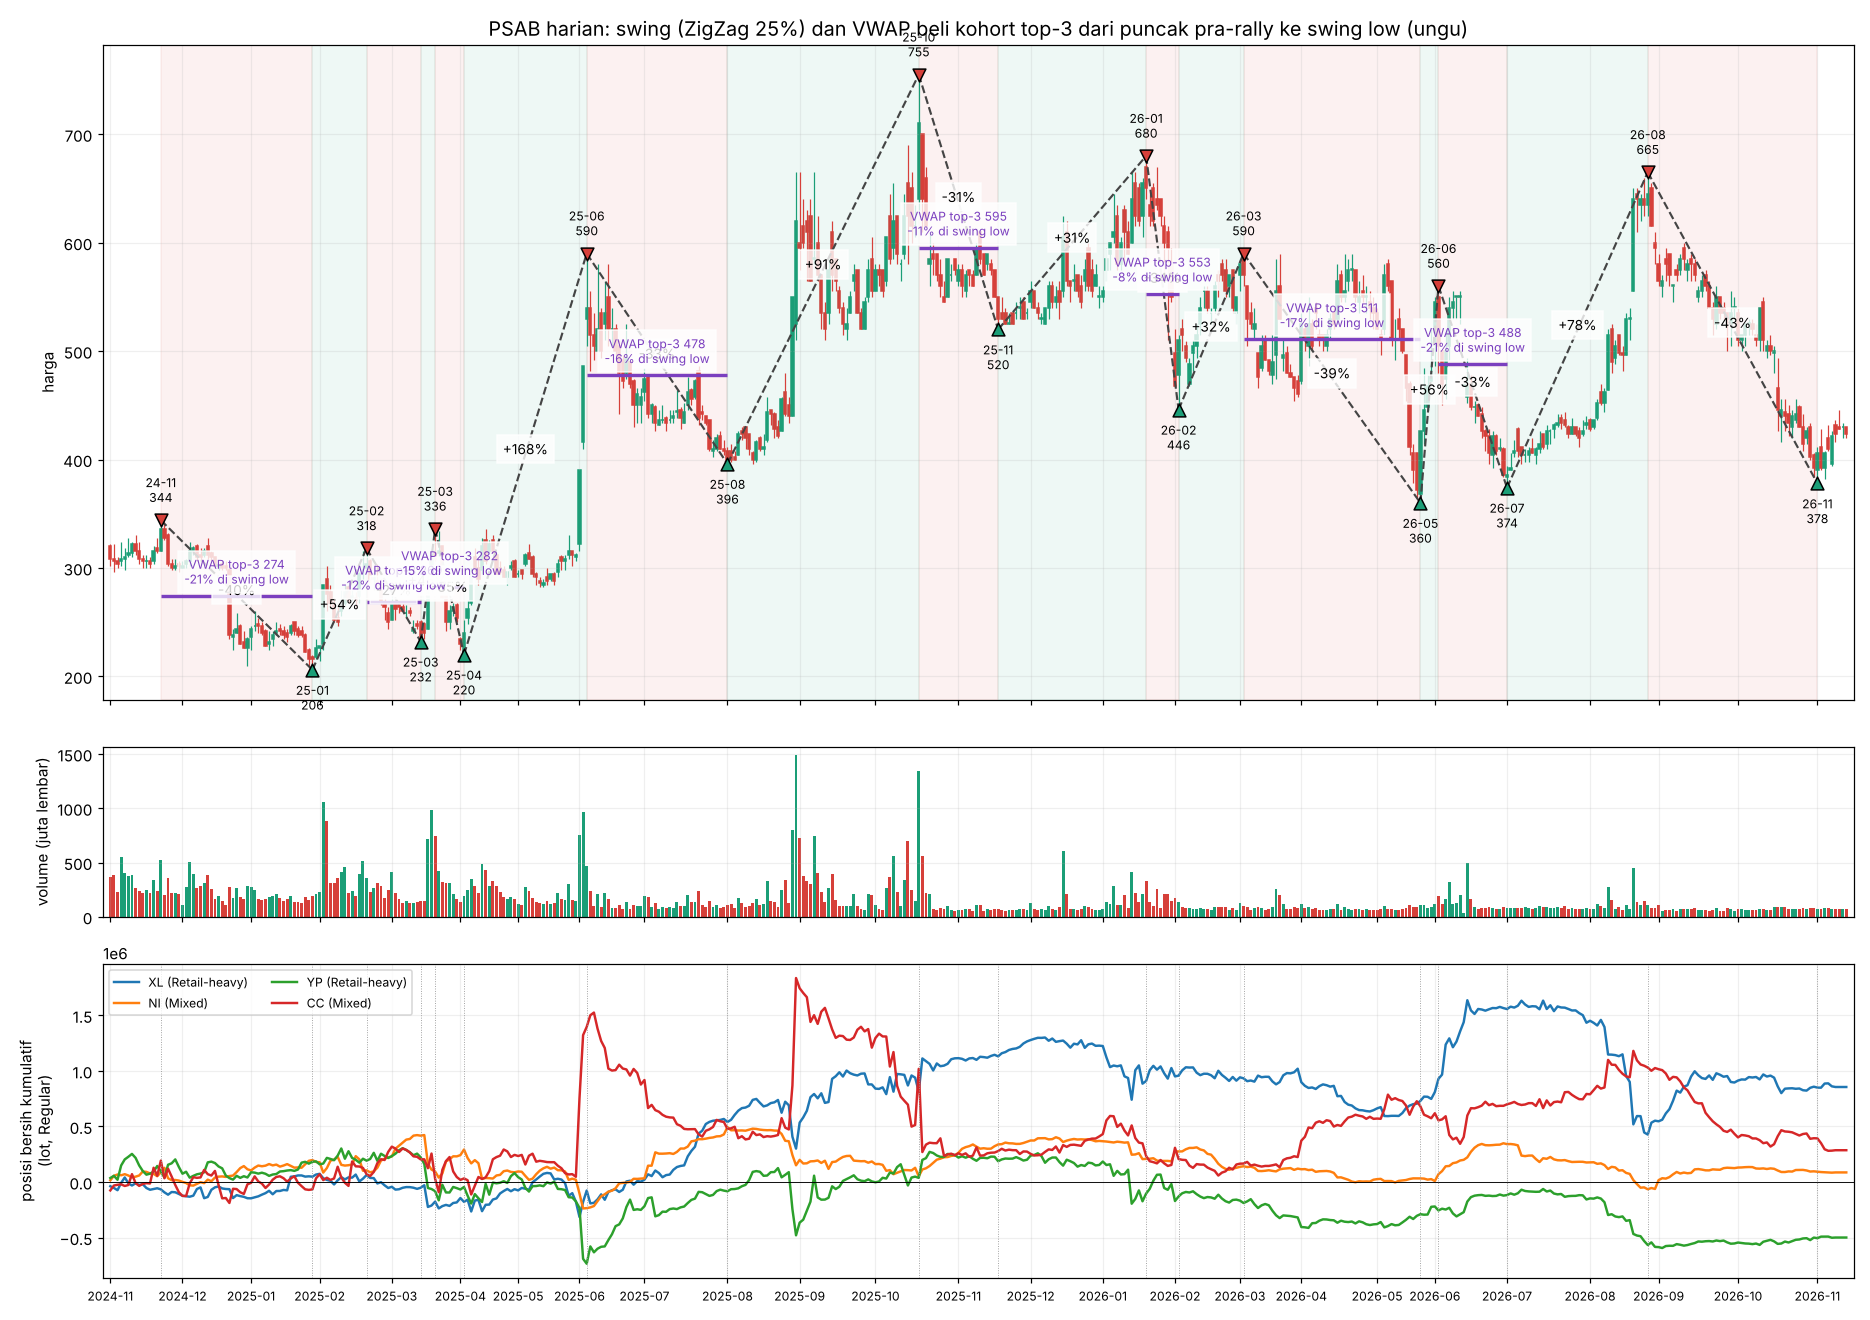
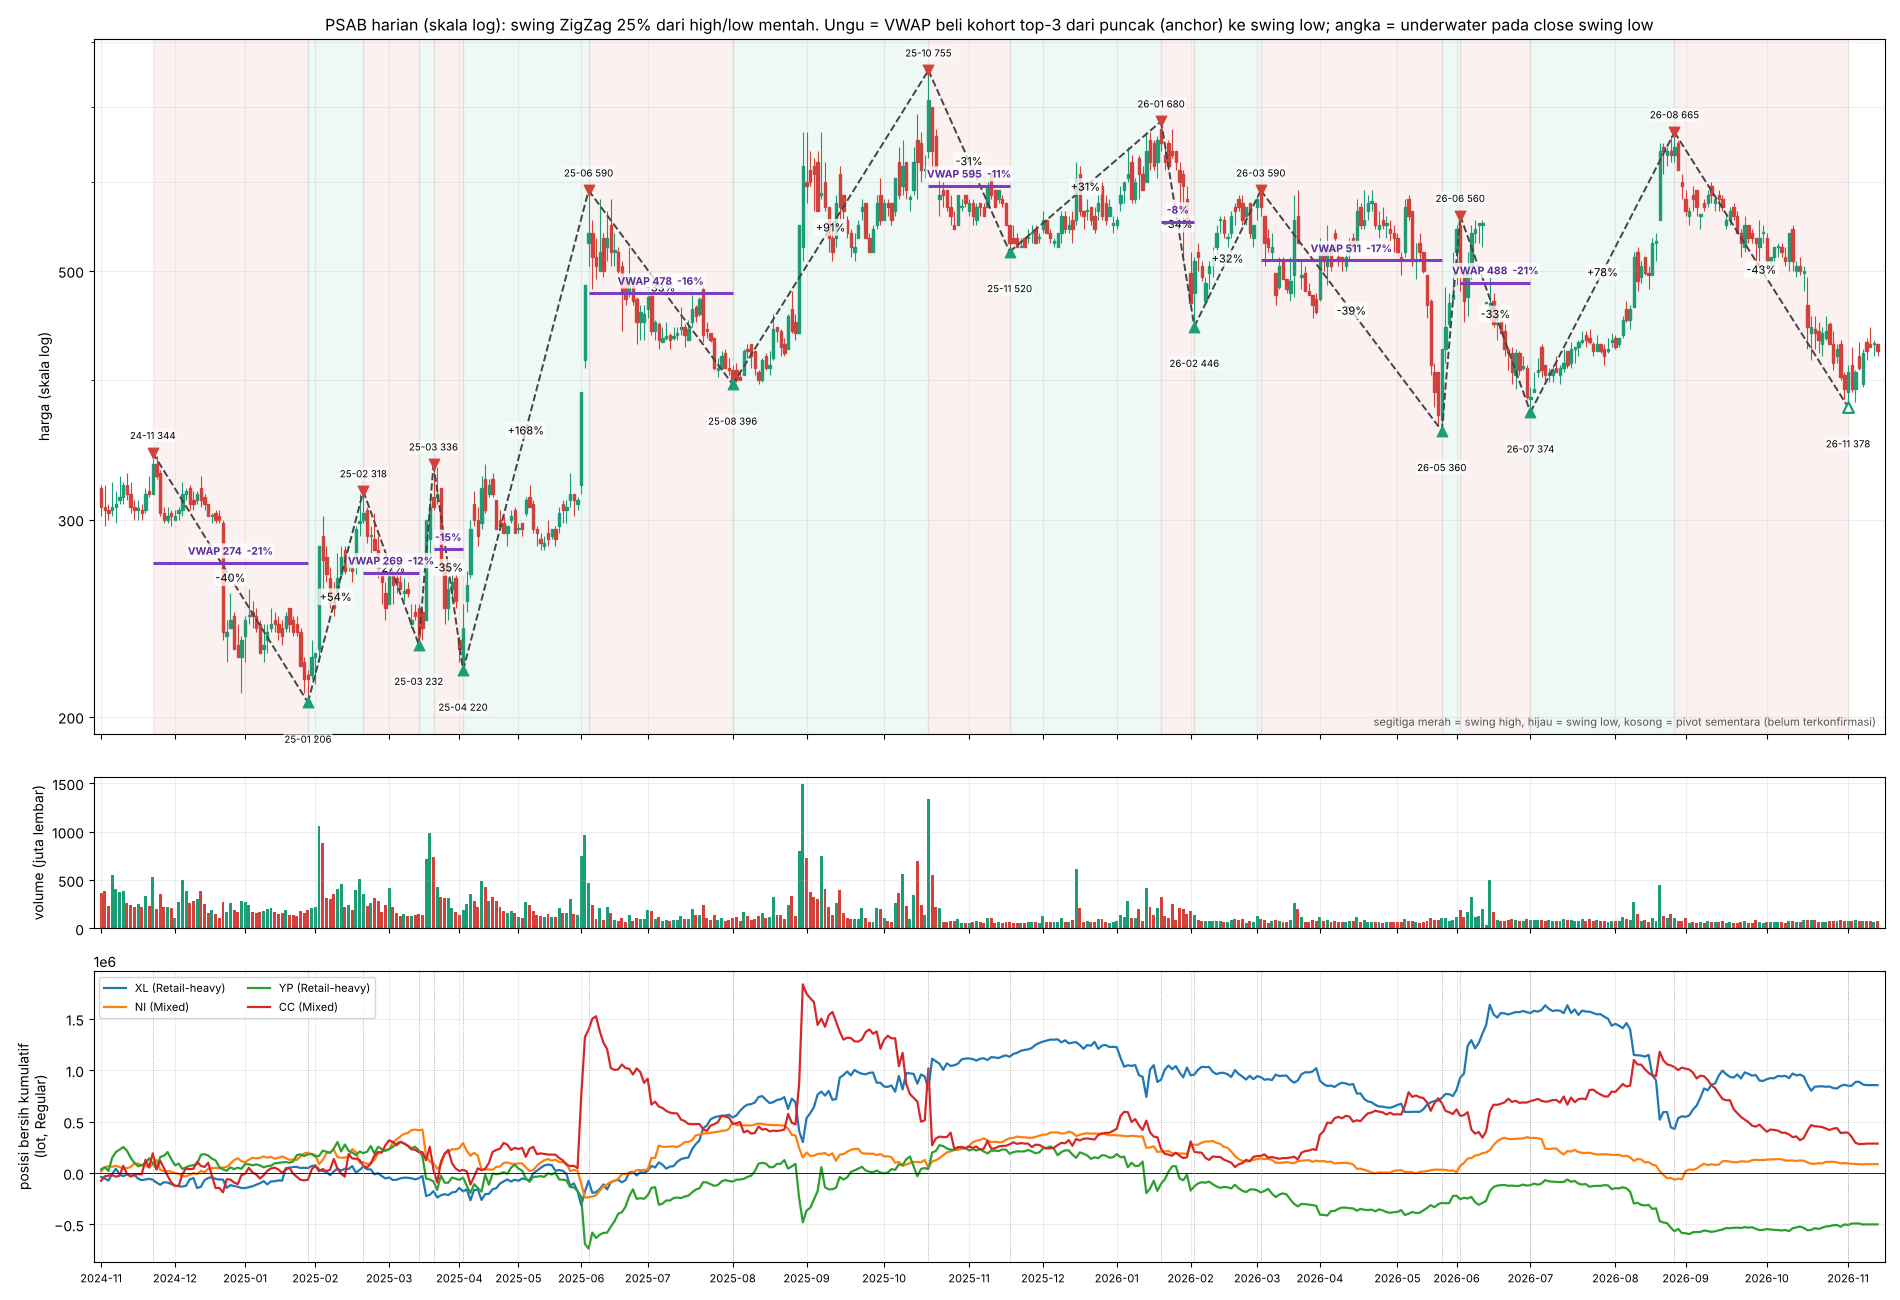
Research notes: readable swing charts (log price axis, thinned labels); PSAB chart refreshed (working branch only)
analyze_stock.py draws the price panel on a log scale so stocks with huge ranges (IRSX 12 to 880) stay readable, thins the
leg and pivot labels, marks provisional pivots hollow and adds a legend line. Results are unchanged (same pivot counts for
all 12 stocks). PSAB_swings.png regenerated with the new style. Not pushed to main.
User 2026-11-12: "kirimin saya PNG screenshot seperti beef ... Untuk semua saham yang kamu lakukan pengetesan."

Claude-Session: https://claude.ai/code/session_01BF1DDoyy7pN7pmJAfiDqGc

diff --git a/verification/swing_accumulation/analyze_stock.py b/verification/swing_accumulation/analyze_stock.py
@@ -98,24 +98,31 @@ for k in range(len(allp) - 2):
     print(f"   VWAP beli kohort {vw:.1f} | underwater pada close swing low {rec['uw_close']:+.1f}% (pada low {rec['uw_low']:+.1f}%) | pembanding VWAP seluruh pasar {mv:.1f} ({rec['uw_mkt']:+.1f}%)" + (f" | papan lain: kohort membeli {ng[1]:,.0f} lot @ {ng[0]:.1f}" if ng else ''))
 json.dump(dict(ticker=TK, th=TH, rng=RNG, pivots=[(dates[i], t, p, (dates[ci] if ci is not None else None)) for i, t, p, ci in allp], legs=legs, tafsir1=t1), open(S + f'{TK.lower()}_result.json', 'w'), default=lambda x: float(x) if isinstance(x, (np.floating, np.integer)) else str(x), ensure_ascii=False)
 
-# ---- chart
+# ---- chart (price axis on a LOG scale so stocks with huge ranges stay readable; labels are thinned so they do not collide)
+from matplotlib.ticker import FuncFormatter, NullFormatter, LogLocator
 acc = {}
 for L in legs:
     if L['kind'] == 'TURUN':
         for b, x in L['buy']: acc[b] = acc.get(b, 0) + abs(x)
 pick = [b for b, _ in sorted(acc.items(), key=lambda z: -z[1])[:4]]
-fig, ax = plt.subplots(3, 1, figsize=(17, 12), sharex=True, gridspec_kw={'height_ratios': [5, 1.3, 2.4]}); x = np.arange(n)
+fig, ax = plt.subplots(3, 1, figsize=(19, 13), sharex=True, gridspec_kw={'height_ratios': [5.5, 1.2, 2.3]}); x = np.arange(n); ax[0].set_yscale('log')
 for i in range(n):
-    col = '#1b9e77' if c[i] >= o[i] else '#d6403a'; ax[0].vlines(i, l[i], h[i], color=col, lw=0.8); ax[0].add_patch(Rectangle((i - 0.32, min(o[i], c[i])), 0.64, max(abs(c[i] - o[i]), 0.001 * c[i]), color=col))
+    col = '#1b9e77' if c[i] >= o[i] else '#d6403a'; ax[0].vlines(i, l[i], h[i], color=col, lw=0.8); ax[0].add_patch(Rectangle((i - 0.32, min(o[i], c[i])), 0.64, max(abs(c[i] - o[i]), 0.003 * c[i]), color=col))
 for k in range(len(allp) - 1):
-    (i0, _, p0, _), (i1, _, p1, _) = allp[k], allp[k + 1]; ax[0].axvspan(i0, i1, color='#d6403a' if p1 < p0 else '#1b9e77', alpha=0.07); ax[0].plot([i0, i1], [p0, p1], color='#444', lw=1.4, ls='--'); ax[0].annotate(f'{100 * (p1 / p0 - 1):+.0f}%', ((i0 + i1) / 2, (p0 + p1) / 2), fontsize=9, ha='center', backgroundcolor='#ffffffcc')
-for k, (i, t, p, _) in enumerate(allp): ax[0].scatter(i, p, marker='v' if t == 'H' else '^', s=70, color='#d6403a' if t == 'H' else '#1b9e77', zorder=5, edgecolor='k'); ax[0].annotate(f'{dates[i][2:7]}\n{p:g}', (i, p), textcoords='offset points', xytext=(0, 12 if t == 'H' else -26), ha='center', fontsize=8)
+    (i0, _, p0, _), (i1, _, p1, _) = allp[k], allp[k + 1]; ax[0].axvspan(i0, i1, color='#d6403a' if p1 < p0 else '#1b9e77', alpha=0.07); ax[0].plot([i0, i1], [p0, p1], color='#444', lw=1.4, ls='--')
+    if i1 - i0 >= 6: ax[0].annotate(f'{100 * (p1 / p0 - 1):+.0f}%', ((i0 + i1) / 2, np.sqrt(p0 * p1)), fontsize=8, ha='center', va='center', bbox=dict(boxstyle='round,pad=0.15', fc='white', ec='none', alpha=0.75))
+for k, (i, t, p, ci) in enumerate(allp):
+    hollow = ci is None; ax[0].scatter(i, p, marker='v' if t == 'H' else '^', s=60, facecolor='white' if hollow else ('#d6403a' if t == 'H' else '#1b9e77'), edgecolor='#d6403a' if t == 'H' else '#1b9e77', linewidth=1.6 if hollow else 0.8, zorder=5)
+    off = (10 + 9 * (k % 2)) if t == 'H' else -(20 + 9 * (k % 2)); ax[0].annotate(f'{dates[i][2:7]} {p:g}', (i, p), textcoords='offset points', xytext=(0, off), ha='center', fontsize=7, bbox=dict(boxstyle='round,pad=0.1', fc='white', ec='none', alpha=0.6))
 for r in t1:
-    ia, ib = di[r['anchor']], di[r['low_date']]; ax[0].hlines(r['vwap'], ia, ib, colors='#7b3fbf', lw=2.2); ax[0].annotate(f"VWAP top-3 {r['vwap']:.0f}\n{r['uw_close']:+.0f}% di swing low", ((ia + ib) / 2, r['vwap']), textcoords='offset points', xytext=(0, 8), ha='center', fontsize=8, color='#7b3fbf', backgroundcolor='#ffffffcc')
-ax[0].set_title(f'{TK} harian: swing (ZigZag {TH:.0%}) dan VWAP beli kohort top-3 dari puncak pra-rally ke swing low (ungu)', fontsize=13); ax[0].set_ylabel('harga'); ax[0].grid(alpha=0.2)
+    ia, ib = di[r['anchor']], di[r['low_date']]; ax[0].hlines(r['vwap'], ia, ib, colors='#7b3fbf', lw=2.2, zorder=4)
+    if ib - ia >= 6: ax[0].annotate((f"VWAP {r['vwap']:.0f}  " if ib - ia >= 15 else '') + f"{r['uw_close']:+.0f}%", ((ia + ib) / 2, r['vwap']), textcoords='offset points', xytext=(0, 6), ha='center', fontsize=7.5, color='#5a2a99', fontweight='bold', bbox=dict(boxstyle='round,pad=0.12', fc='white', ec='none', alpha=0.8), zorder=6)
+ax[0].yaxis.set_major_locator(LogLocator(subs=(1, 2, 3, 5))); ax[0].yaxis.set_major_formatter(FuncFormatter(lambda v, _: f'{v:g}')); ax[0].yaxis.set_minor_formatter(NullFormatter()); ax[0].grid(alpha=0.2, which='both')
+ax[0].set_title(f'{TK} harian (skala log): swing ZigZag {TH:.0%} dari high/low mentah. Ungu = VWAP beli kohort top-3 dari puncak (anchor) ke swing low; angka = underwater pada close swing low', fontsize=11.5); ax[0].set_ylabel('harga (skala log)')
+ax[0].text(0.995, 0.012, 'segitiga merah = swing high, hijau = swing low, kosong = pivot sementara (belum terkonfirmasi)', transform=ax[0].transAxes, ha='right', fontsize=8, color='#555')
 ax[1].bar(x, v / 1e6, color=['#1b9e77' if c[i] >= o[i] else '#d6403a' for i in range(n)], width=0.8); ax[1].set_ylabel('volume (juta lembar)'); ax[1].grid(alpha=0.2); cm = plt.get_cmap('tab10')
 for j, b in enumerate(pick): ax[2].plot(x, np.cumsum(NL[:, bi[b]]), label=nm(b), color=cm(j), lw=1.6)
 ax[2].axhline(0, color='k', lw=0.6); ax[2].set_ylabel('posisi bersih kumulatif\n(lot, Regular)'); ax[2].legend(loc='upper left', fontsize=8, ncol=2); ax[2].grid(alpha=0.2)
 for (i, _, _, _) in allp: ax[2].axvline(i, color='#999', lw=0.6, ls=':')
 ticks = [i for i in range(n) if i == 0 or dates[i][:7] != dates[i - 1][:7]]; ax[2].set_xticks(ticks); ax[2].set_xticklabels([dates[i][:7] for i in ticks], fontsize=8); ax[2].set_xlim(-2, n + 1)
-plt.tight_layout(); plt.savefig(S + f'{TK}_swings.png', dpi=110); print('\ngrafik:', S + f'{TK}_swings.png')
+plt.tight_layout(); plt.savefig(S + f'{TK}_swings.png', dpi=100); print('\ngrafik:', S + f'{TK}_swings.png')
